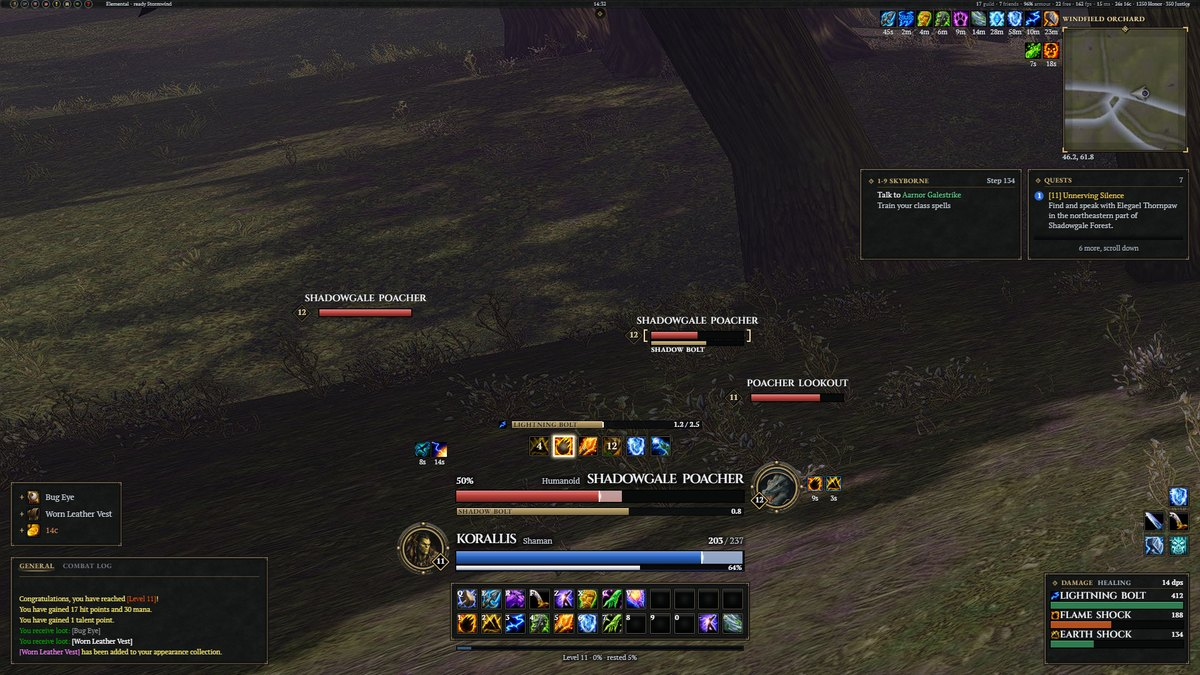
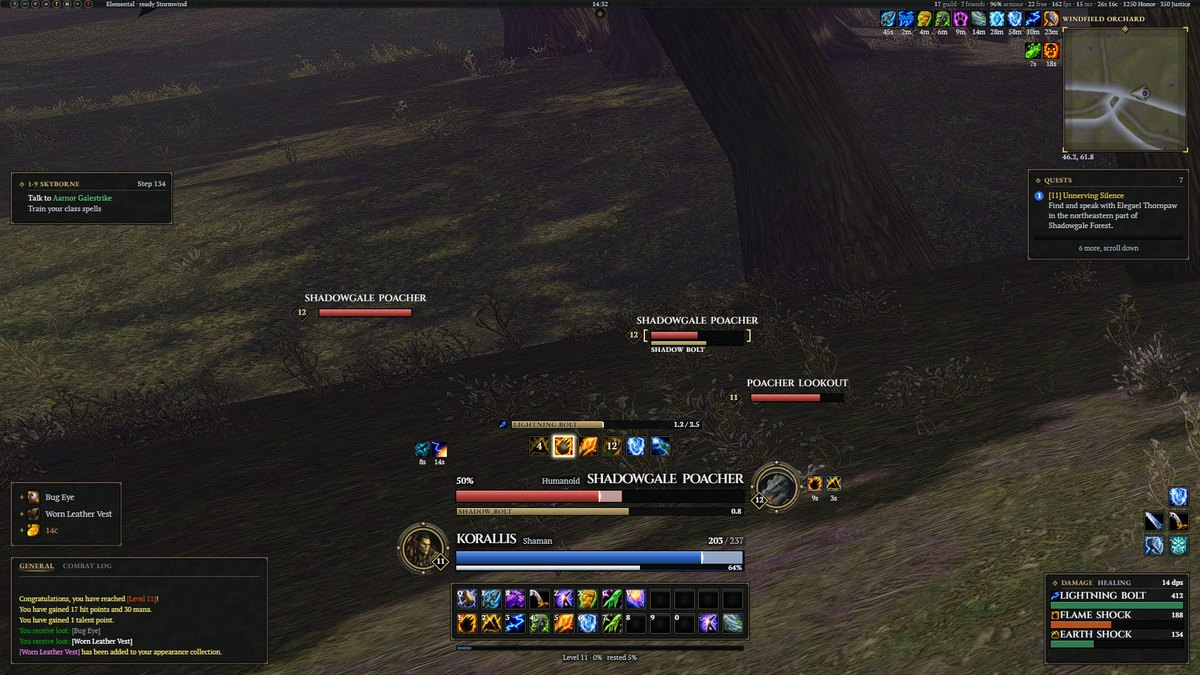
docs(media): retake the Frames README pictures at the shipped ornament level
readme.py renders hud_frames_5120 (Spread) and hud_frames_1080 at Full ornaments
over the committed forest plates; the store gallery's Frames row copies the 1080.

diff --git a/Tools/render/readme.py b/Tools/render/readme.py
@@ -10,6 +10,8 @@ In-game Medallions media uses the game_ prefix and is preserved.
 The pictures:
 
   hud_1080                             the whole HUD in combat on a 1920x1080 screen at the 15/16 size the game picks
+  hud_frames_5120, hud_frames_1080     the whole Frames HUD in combat at the shipped ornament level, Full: 5120x1440 in
+                                       the Spread arrangement at Interface size Auto, and 1920x1080 at 15/16
   ultrawide_centred, ultrawide_spread  the Healer layout on 5120x1440 in each ultrawide arrangement
   crop_*                               close crops of the 1080 HUD drawn at twice the density: the unit frames, the
                                        right rail, the group meter, and the nameplate scene; a rogue's crest jewels
@@ -46,8 +48,8 @@ HUD = dict(HD, **COMBAT)
 RENDERS = {
     "hud_1080": ("hud_reference", 1.0, HUD, "--strict"),
     "hud_1080_2x": ("hud_reference", 2.0, HUD, "--strict"),
-    "frames_5120": ("hud_reference", 1440 / 1080, {**ULTRAWIDE, **COMBAT, "RENDER_HUD_STYLE": "Frames", "RENDER_ARRANGEMENT": "spread"}, "--strict"),
-    "frames_1080": ("hud_reference", 1.0, dict(HUD, RENDER_HUD_STYLE="Frames"), "--strict"),
+    "frames_5120": ("hud_reference", 1440 / 1080, {**ULTRAWIDE, **COMBAT, "RENDER_HUD_STYLE": "Frames", "RENDER_ORNAMENTS": "Full", "RENDER_ARRANGEMENT": "spread"}, "--strict"),
+    "frames_1080": ("hud_reference", 1.0, dict(HUD, RENDER_HUD_STYLE="Frames", RENDER_ORNAMENTS="Full"), "--strict"),
     "healer_centred": ("hud_reference", 1440 / 1080, {**ULTRAWIDE, **COMBAT, "RENDER_LAYOUT": "Healer", "RENDER_ARRANGEMENT": "centred"}, "--strict"),
     "healer_spread": ("hud_reference", 1440 / 1080, {**ULTRAWIDE, **COMBAT, "RENDER_LAYOUT": "Healer", "RENDER_ARRANGEMENT": "spread"}, "--strict"),
     "meter_party": ("hud_reference", 2.0, dict(HUD, RENDER_METER_GROUP="party"), "--strict"),
